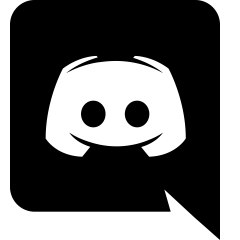
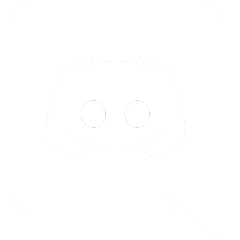
updated css and images to cool new style!

diff --git a/css/style.css b/css/style.css
@@ -49,7 +49,8 @@ html, body {
 }
 @media (prefers-color-scheme: light) {
     body {
-        background-image: linear-gradient(#8BB174, linen);
+        background-image: linear-gradient(#D95AE5, #32CCFE);
+        /*background-image: linear-gradient(#8BB174, linen);*/
         /*background-color: linen;*/
         color: black;
     }
@@ -64,21 +65,25 @@ body {
     /*background-color: linen;*/
 }
 h1 {
-    color: #728A31;
+    color: #FFFFFF;
+    /*color: #728A31;*/
     font-size: 36pt;
 }
 h3 {
-    color: #689323;
+    color: #FFFFFF;
+    /*color: #689323;*/
     font-size: 28pt;
     text-align: center;
     font-weight: 300;
 }
 a {
-    text-decoration: none;
-    color: #315F10;
+    /*text-decoration: none;*/
+    /*color: #315F10;*/
+    color: #FFFFFF;
 }
 h2 {
-    color: #315F10;
+    color: #FFFFFF;
+    /*color: #315F10;*/
     font-size: 18pt;
     font-weight: 50;
 }
@@ -88,13 +93,15 @@ h4 a {
 }
 
 h4 {
-    color: #3F4C1B;
+    color: #FFFFFF;
+    /*color: #3F4C1B;*/
     font-size: 12pt;
     font-family: Courier New, Courier;
     font-weight: 300;
 }
 p {
-    color: #3F4C1B;
+    color: #FFFFFF;
+    /*color: #3F4C1B;*/
     font-size: 18pt;
     text-align: left;
 	display: block;
@@ -143,7 +150,9 @@ ul > li {
     border-radius: 8px;
     width: 100%;
     border: none;
-    background-image: linear-gradient(to right, rgba(120, 150, 120, 1.00), rgba(139, 177, 116, 1.00) 60%);
+    /*background-image: linear-gradient(to right, rgba(120, 150, 120, 1.00), rgba(139, 177, 116, 1.00) 60%);*/
+    background-color: rgba(255, 255, 255, 0.25);
+	backdrop-filter: saturate(120%) blur(10px);
     box-shadow: 0px 0px 5px rgba(0, 0, 0, 0.3);
     transition: 1s;
 }
@@ -154,7 +163,8 @@ ul > li {
 .smbutton {
 	width: 30px;
 	opacity: 0.7;
-    background-color: rgba(139, 177, 116, 1);
+	background-color: rgba(255, 255, 255, 0.35);
+	backdrop-filter: saturate(120%) blur(10px);
     padding: 10px;
     margin: 0px 10px;
     border-radius: 12.632px;
@@ -169,10 +179,19 @@ ul > li {
     padding: 20px 0;
     border-radius: 8px;
     border: none;
-    background-color: rgba(139, 177, 116, 1.00);
+    background-color: rgba(255, 255, 255, 0.1);
+	backdrop-filter: saturate(120%) blur(10px);
     box-shadow: 0px 0px 5px rgba(0, 0, 0, 0.3);
     transition: 1s;
 }
+/*.descriptionContent {
+    padding: 20px 0;
+    border-radius: 8px;
+    border: none;
+    background-color: rgba(139, 177, 116, 1.00);
+    box-shadow: 0px 0px 5px rgba(0, 0, 0, 0.3);
+    transition: 1s;
+}*/
 .descriptionContentText {
     float: left;
 	margin-right: 5%;
